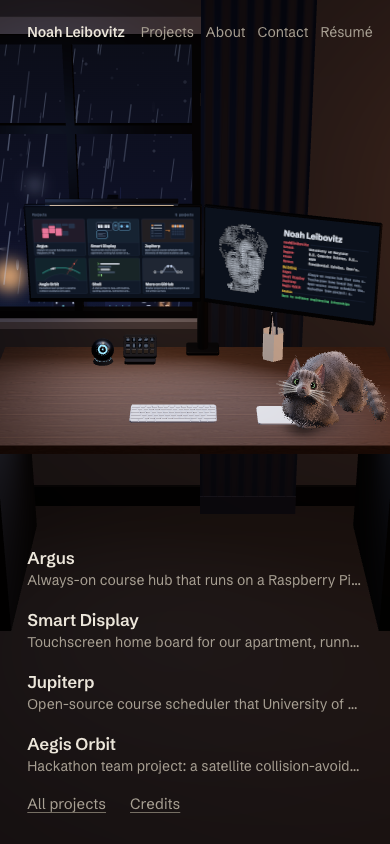
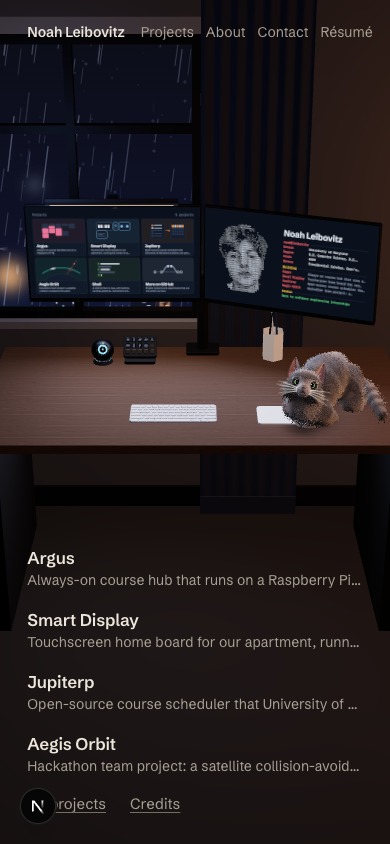
Cat: no drawn lines on the head, a fluffier crown instead
The forehead "M" and the cheek stripes are gone; the crown is a soft,
uneven darker grey and the head's fur is longer and stands out more.

diff --git a/src/scene/cat/build/shape.ts b/src/scene/cat/build/shape.ts
@@ -56,14 +56,14 @@ add({ a: [0, 0.184, 0.116], b: [0, 0.192, 0.134], ra: 0.047, rb: 0.04, k: 0.03, 
 add({ a: [0, 0.222, 0.138], b: [0, 0.256, 0.19], ra: 0.044, rb: 0.039, k: 0.028, fur: 0.05, lay: 0.56, comb: [0, -0.85, -0.5], tag: "ruff", bones: ["neck"] });
 
 // Head: a broad rounded wedge with full cheeks and a short strong muzzle.
-const head = { k: 0.014, fur: 0.021, lay: 0.6, comb: [0, 0.25, -1] as Vec3, tag: "head" as Tag };
+const head = { k: 0.014, fur: 0.027, lay: 0.5, comb: [0, 0.25, -1] as Vec3, tag: "head" as Tag };
 add({ ...head, a: [0, 0.277, 0.204], b: [0, 0.2745, 0.224], ra: 0.0425, rb: 0.041, squash: [1.14, 0.95, 1.02], bones: ["head"] });
 for (const s of [1, -1]) {
   add({ a: [s * 0.027, 0.2585, 0.226], b: [s * 0.03, 0.256, 0.218], ra: 0.0235, rb: 0.022, k: 0.016, fur: 0.04, lay: 0.5, comb: [s * 0.7, -0.55, -0.5], tag: "cheek", bones: ["head"] });
   // Jowls: the long fur that frames a Siberian's face and runs down into the ruff.
   add({ a: [s * 0.035, 0.249, 0.214], b: [s * 0.039, 0.243, 0.202], ra: 0.02, rb: 0.018, k: 0.016, fur: 0.05, lay: 0.48, comb: [s * 0.75, -0.7, -0.25], tag: "cheek", bones: ["head"] });
   // Brow ridge over each eye.
-  add({ ...head, a: [s * 0.019, 0.2835, 0.2365], b: [s * 0.027, 0.2815, 0.23], ra: 0.0145, rb: 0.013, k: 0.012, fur: 0.013, bones: ["head"] });
+  add({ ...head, a: [s * 0.019, 0.2835, 0.2365], b: [s * 0.027, 0.2815, 0.23], ra: 0.0145, rb: 0.013, k: 0.012, fur: 0.016, bones: ["head"] });
   // Whisker pads.
   add({ a: [s * 0.009, 0.2532, 0.2655], b: [s * 0.0104, 0.2532, 0.2635], ra: 0.0096, rb: 0.009, k: 0.005, fur: 0.0035, lay: 0.85, comb: [s * 0.5, 0, -1], tag: "muzzle", bones: ["head"] });
 }
@@ -296,15 +296,11 @@ export function describe(p: Vec3, n: Vec3): Described {
   if (face > 0.3) {
     const h: Vec3 = [x - FACE.center[0], y - FACE.center[1], z - FACE.center[2]];
     const ax = Math.abs(h[0]);
-    // The tabby "M": lines running back over the forehead between the ears.
-    const forehead = smooth(0.011, 0.02, h[1]) * smooth(0.042, 0.034, ax) * m("head");
-    const lines = smooth(0.35, 0.75, 0.5 + 0.5 * Math.cos((2 * Math.PI * ax) / 0.0125 + grain * 0.8));
-    stripe = Math.max(stripe, forehead * lines * 0.95);
-    // Two stripes back across each cheek from the eye's outer corner.
-    const mirrored: Vec3 = [ax, h[1], h[2]];
-    const cheek1 = toSegment(mirrored, [0.031, 0.002, 0.024], [0.05, -0.006, -0.012]);
-    const cheek2 = toSegment(mirrored, [0.03, -0.012, 0.02], [0.048, -0.022, -0.008]);
-    stripe = Math.max(stripe, smooth(0.0042, 0.0018, cheek1) * 0.75, smooth(0.0038, 0.0016, cheek2) * 0.6);
+    // No drawn lines on the head: a real coat has none. The crown is a smoky, slightly darker
+    // grey that breaks up softly and unevenly, and the fur itself does the rest.
+    const crown = smooth(0.008, 0.03, h[1]) * smooth(0.046, 0.026, ax) * m("head");
+    const smoke = smooth(0.3, 0.8, fbm(x * 42, y * 42, z * 42));
+    stripe = Math.max(stripe, crown * (0.16 + 0.2 * smoke));
     // Pale muzzle and chin, a warmer bridge, pale "spectacles" round the eyes inside a dark liner.
     const muzzle = m("muzzle");
     const bridge = smooth(0.006, 0.0, ax - 0.004) * smooth(-0.012, 0.004, h[1]) * smooth(0.02, 0.035, h[2]) * muzzle;

diff --git a/src/scene/cat/fur.ts b/src/scene/cat/fur.ts
@@ -65,7 +65,7 @@ export function catGeometry(file: ArrayBuffer, shells: number): { body: Instance
     geometry.instanceCount = layers;
     return geometry;
   };
-  return { body: part(0, headStart, shells), head: part(headStart, indexCount - headStart, Math.max(8, Math.round(shells * 0.6))) };
+  return { body: part(0, headStart, shells), head: part(headStart, indexCount - headStart, Math.max(8, Math.round(shells * 0.75))) };
 }
 
 /**

diff --git a/docs/features/desk-cat.md b/docs/features/desk-cat.md
@@ -37,6 +37,7 @@ It is decoration: it opens nothing, has no label and no place in the Tab order. 
 - **Colors are cooler than the photo** on purpose: the room's fill light is warm, and lit by it the coat comes out the brown-grey of the photo.
 - Its place and facing are `CAT` in `src/scene/layout.ts`. On a narrow screen the desk's right end is out of frame, so it sits 10 cm further in (`phonePosition`).
 - **Noah's first notes, 2026-11-21, while it was being built:** the eyes were "a little creepy" and should be more open; the paws needed to be more defined; the face should be fluffier and closer to the real cat. Done the same day: lids open wider with almost no slant, pupils rounder, a darker iris shaded by the upper lid; four toes on each paw with the lines between them; longer fur on the forehead, brows, cheeks and jowls, longer ear tufts, a visible nose and mouth, and a muzzle that is pale grey, not white. He has not yet said whether that is enough.
+- **No drawn lines on the head** (Noah, 2026-11-21: "instead of lines on the cat's head make it more fluffy like and less lines. In actuality cats don't have lines like that"). The tabby "M" on the forehead and the two stripes across each cheek are gone. The crown is a soft, uneven, slightly darker grey, and the head's fur is longer (27 mm) and stands out more, drawn in 17 layers. The body's stripes and the tail's rings are still there, and faint at desk size; he was speaking of the head. Do not bring crisp markings back on the face.
 
 ## Measured (2026-11-21, M3 Pro MacBook on mains power)
 
